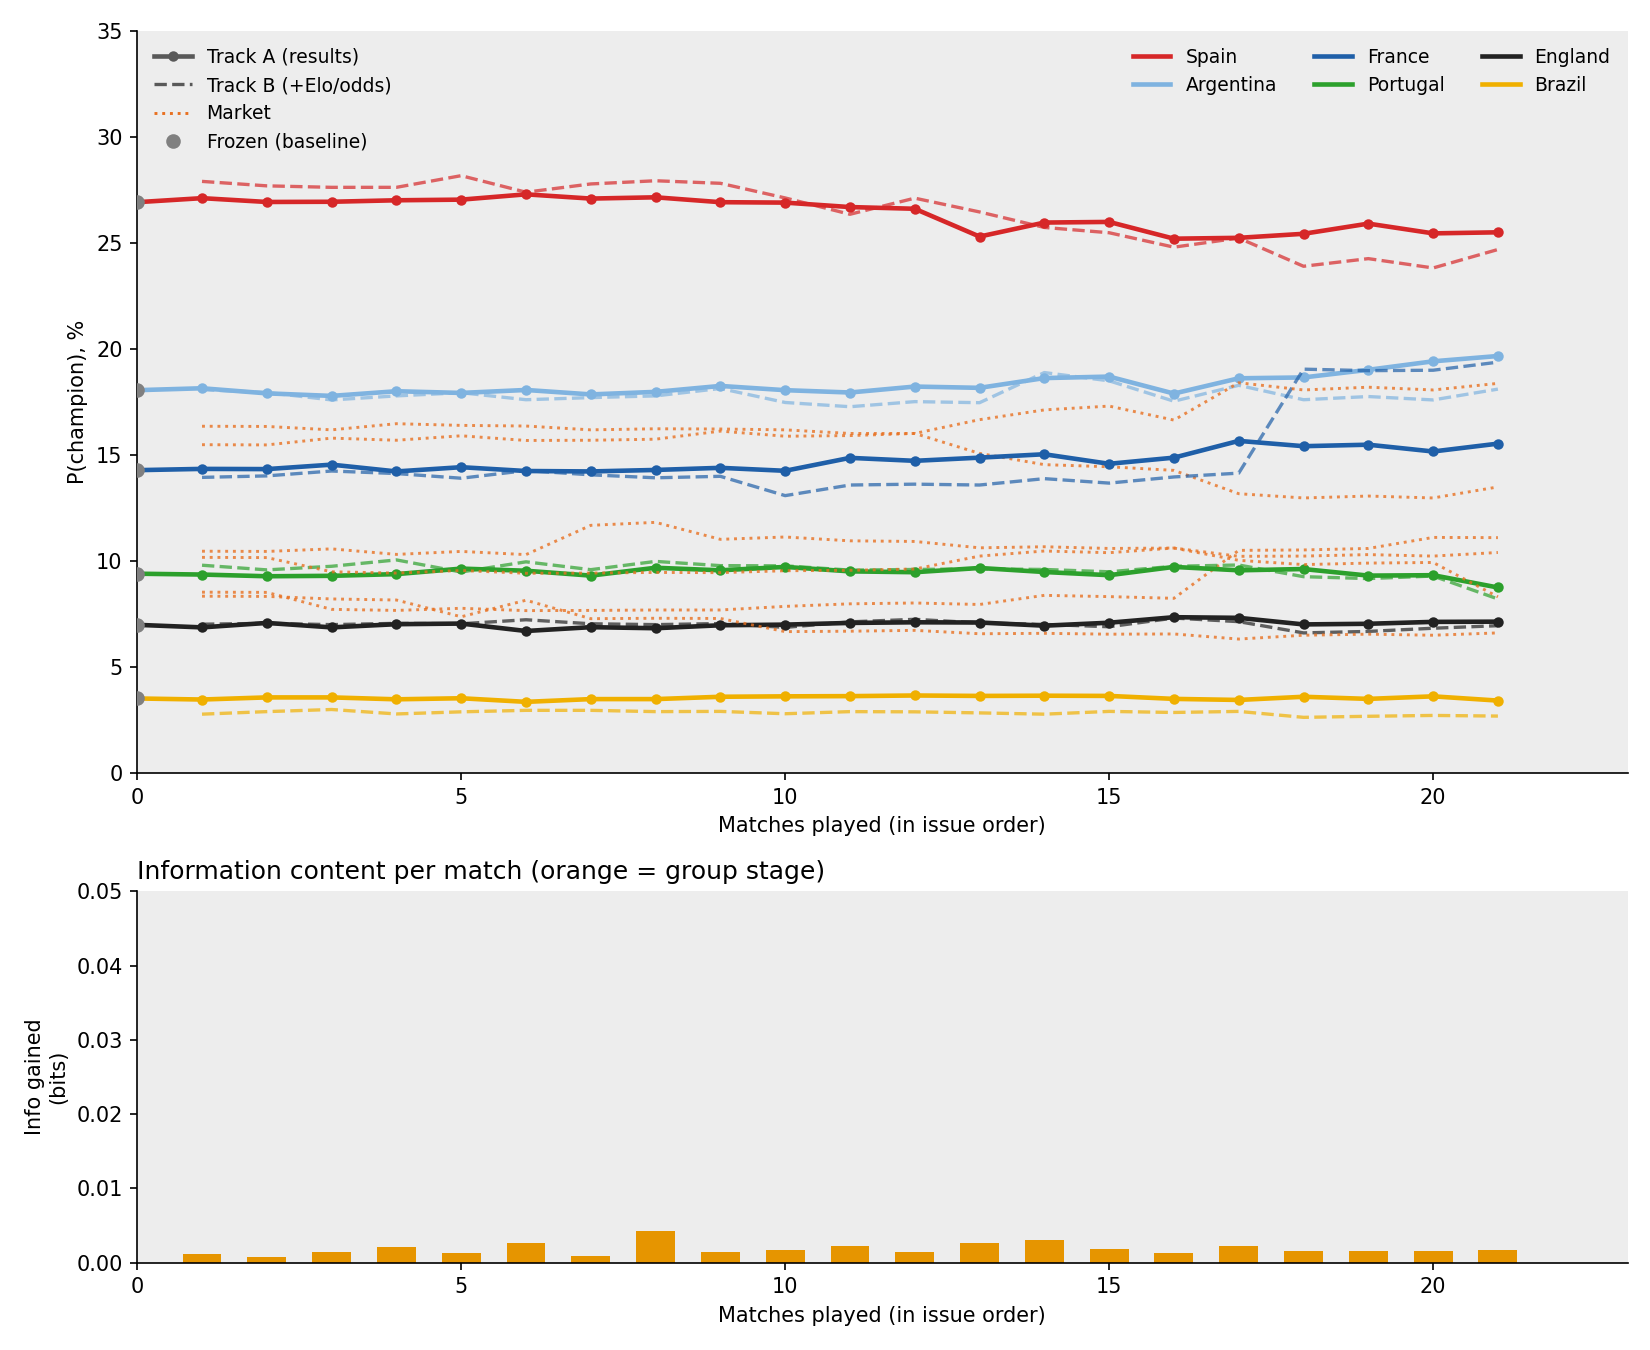
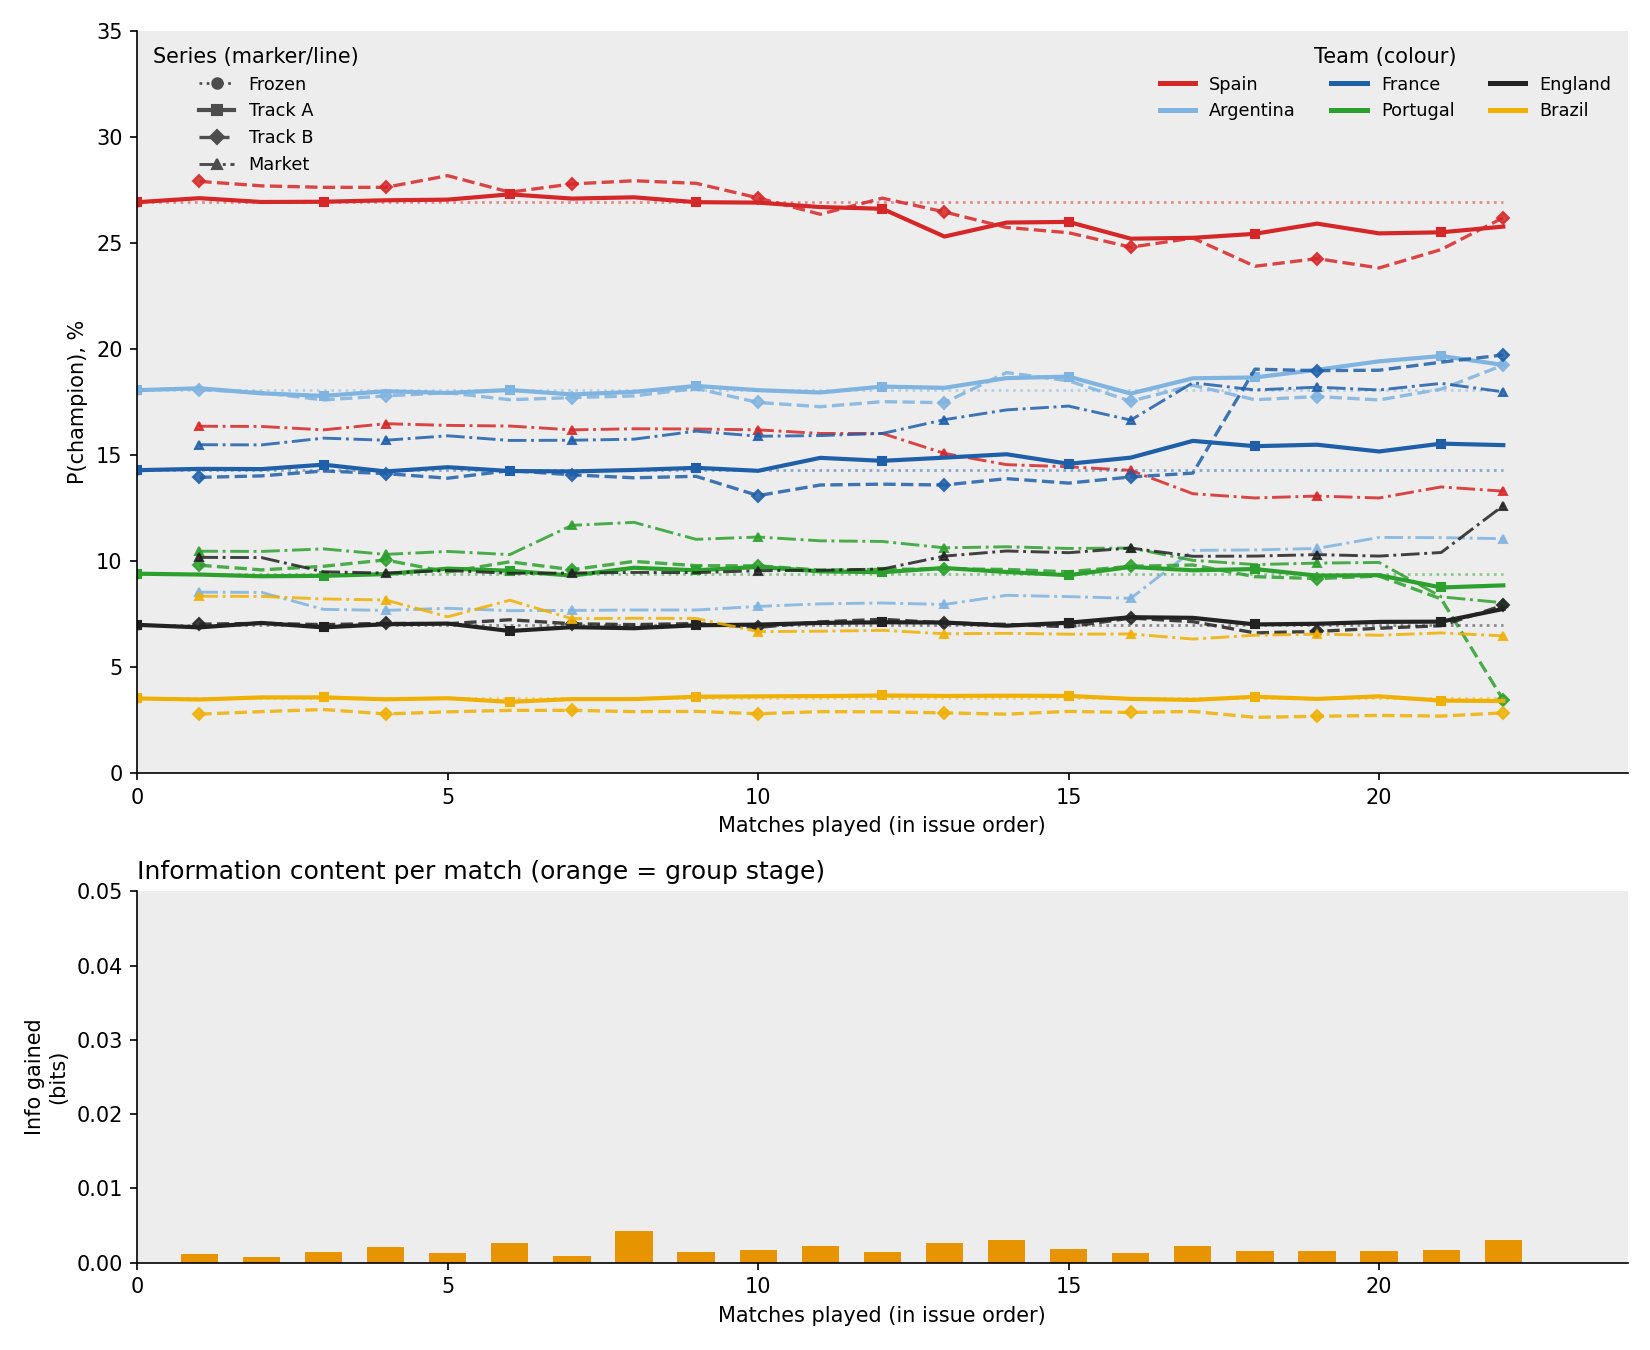
feat: pad Table 18 cells (07.0); redesign Figure 3 legend (per-team colour, per-series marker/line)
- Table 18 (F/A/B survival): zero-pad cells to 0X.X so they align
- Figure 3 trajectory: each team keeps one colour across all four series; series
  told apart by marker + line style (Frozen circle/dotted, Track A square/solid,
  Track B diamond/dashed, Market triangle/dash-dot); Market now drawn in the team
  colour; two legends (Team colour, Series marker/line)

diff --git a/paper/live/survival_colcomp.tex b/paper/live/survival_colcomp.tex
@@ -13,54 +13,54 @@ Team & KO & R16 & QF & SF & Final & Champion \\
 Team & KO & R16 & QF & SF & Final & Champion \\
 \midrule
 \endhead
-Spain & 98.9/95.1/97.9 & 79.5/75.8/80.5 & 62.4/59.9/64.2 & 51.5/49.6/54.6 & 38.9/37.0/38.4 & 26.9/25.5/26.0 \\
-Argentina & 98.9/100.0/100.0 & 71.3/75.8/74.7 & 59.2/64.1/62.5 & 42.8/46.8/48.8 & 30.1/33.0/34.4 & 18.1/19.7/19.2 \\
-France & 98.5/100.0/100.0 & 79.2/81.8/84.9 & 59.0/62.4/64.0 & 43.2/46.7/50.3 & 24.5/26.7/30.9 & 14.3/15.5/19.8 \\
-Portugal & 97.3/94.1/89.7 & 74.0/70.1/57.6 & 51.1/48.1/35.1 & 29.3/27.4/17.0 & 18.2/17.0/8.8 & 9.4/8.8/3.4 \\
-England & 99.0/99.0/98.5 & 71.7/71.9/72.1 & 46.5/46.9/48.4 & 28.9/29.4/30.7 & 14.6/14.8/15.7 & 7.0/7.1/7.4 \\
-Brazil & 98.4/98.0/97.2 & 64.6/62.2/57.2 & 38.1/38.2/35.9 & 20.2/20.1/17.8 & 8.5/8.5/7.4 & 3.5/3.4/3.1 \\
-Germany & 98.8/99.9/100.0 & 66.9/70.0/78.6 & 31.2/30.1/36.9 & 16.6/16.6/23.4 & 6.2/6.3/10.7 & 2.2/2.3/4.8 \\
-Netherlands & 91.0/90.3/97.2 & 55.1/53.5/63.9 & 33.6/32.5/43.4 & 15.9/15.1/20.8 & 6.2/5.7/9.2 & 2.4/2.1/3.7 \\
-Norway & 89.4/98.5/96.9 & 53.6/63.6/60.5 & 28.6/34.5/30.7 & 13.8/16.8/14.6 & 5.1/6.1/5.4 & 1.7/2.1/1.7 \\
-Ecuador & 87.7/73.1/75.4 & 52.7/46.7/42.0 & 28.7/29.4/23.6 & 13.2/11.4/7.2 & 5.4/5.1/2.3 & 2.0/1.9/0.6 \\
-Croatia & 95.4/95.1/93.6 & 52.4/52.7/55.0 & 23.6/24.6/27.1 & 11.9/12.6/13.8 & 4.9/5.0/5.1 & 1.7/1.7/1.8 \\
-Colombia & 94.0/93.2/87.1 & 51.4/52.4/48.7 & 23.6/26.9/27.3 & 10.5/11.1/11.5 & 4.5/4.7/4.8 & 1.4/1.6/1.6 \\
-Mexico & 91.6/98.5/97.8 & 58.0/63.6/53.3 & 26.8/29.3/18.9 & 11.6/12.5/5.7 & 3.8/4.1/1.6 & 1.2/1.3/0.3 \\
-Switzerland & 94.0/85.6/88.6 & 63.0/56.2/52.7 & 28.8/26.5/23.1 & 10.6/9.3/6.2 & 4.0/3.6/2.1 & 1.2/1.2/0.5 \\
-Japan & 76.0/79.0/91.6 & 40.7/41.9/46.0 & 21.1/21.2/22.7 & 8.9/8.9/8.2 & 3.0/3.0/2.5 & 1.0/1.0/0.7 \\
-Uruguay & 87.8/77.8/84.7 & 35.9/32.3/39.1 & 19.2/16.9/23.2 & 8.4/7.4/11.8 & 3.4/3.0/5.1 & 1.0/0.9/1.8 \\
-Belgium & 96.4/95.0/86.6 & 58.0/55.4/46.4 & 28.0/25.8/18.3 & 8.0/7.8/4.8 & 3.0/2.9/1.3 & 0.9/0.8/0.3 \\
-Senegal & 81.5/73.6/60.0 & 42.5/38.8/30.0 & 19.8/18.0/13.3 & 7.6/6.3/4.2 & 2.4/2.1/1.2 & 0.7/0.6/0.3 \\
-Turkey & 80.4/48.9/71.9 & 51.2/25.7/42.5 & 24.3/10.9/19.1 & 9.1/4.8/9.3 & 3.9/1.8/4.1 & 1.3/0.6/1.4 \\
-Morocco & 88.8/93.3/90.8 & 37.9/40.3/37.6 & 17.1/18.4/18.1 & 5.8/6.0/5.8 & 1.5/1.5/1.6 & 0.3/0.4/0.4 \\
-Austria & 76.1/91.5/91.3 & 22.5/29.0/21.7 & 9.3/11.2/7.8 & 3.4/4.4/3.0 & 1.1/1.4/0.8 & 0.3/0.4/0.1 \\
-Canada & 88.4/83.8/84.4 & 51.7/48.7/38.3 & 20.7/19.6/12.4 & 5.9/5.4/2.5 & 1.6/1.5/0.5 & 0.4/0.3/0.1 \\
-Paraguay & 65.2/38.9/20.6 & 33.3/17.2/7.0 & 12.5/5.6/1.8 & 3.9/2.0/0.6 & 1.3/0.6/0.1 & 0.3/0.2/0.0 \\
-Australia & 45.3/90.5/92.5 & 18.9/40.8/39.1 & 5.6/10.6/11.2 & 1.5/2.9/2.5 & 0.4/0.8/0.6 & 0.1/0.1/0.1 \\
-United States & 82.3/98.4/96.4 & 39.9/46.8/47.3 & 13.1/16.3/19.3 & 2.7/3.2/5.1 & 0.7/0.8/1.4 & 0.1/0.1/0.3 \\
-South Korea & 66.2/91.8/97.4 & 28.2/43.0/50.4 & 8.2/12.9/15.7 & 2.3/3.3/4.0 & 0.5/0.6/0.7 & 0.1/0.1/0.1 \\
-Scotland & 69.1/82.9/75.5 & 23.1/27.4/18.3 & 8.6/10.3/5.6 & 2.5/3.0/1.1 & 0.6/0.6/0.2 & 0.1/0.1/0.0 \\
-Iran & 62.6/42.1/48.5 & 26.2/18.2/17.7 & 6.7/4.9/4.3 & 1.5/1.0/0.6 & 0.4/0.3/0.1 & 0.1/0.1/0.0 \\
-Czechia & 68.3/49.9/55.8 & 27.3/19.8/17.5 & 7.2/4.9/3.8 & 1.8/1.3/0.9 & 0.3/0.2/0.1 & 0.1/0.0/0.0 \\
-Sweden & 64.2/95.5/96.3 & 19.5/29.1/39.5 & 5.5/8.8/14.2 & 1.2/1.8/3.7 & 0.2/0.3/0.8 & 0.0/0.0/0.1 \\
-Egypt & 76.6/82.8/78.0 & 26.8/29.6/33.6 & 5.7/6.0/9.6 & 0.9/1.0/2.0 & 0.2/0.2/0.4 & 0.0/0.0/0.1 \\
-Algeria & 57.4/40.1/37.9 & 13.4/10.7/9.7 & 4.3/3.2/3.3 & 1.1/0.7/0.7 & 0.3/0.1/0.1 & 0.0/0.0/0.0 \\
-Uzbekistan & 38.5/37.5/36.1 & 8.9/8.9/9.2 & 2.4/2.5/2.8 & 0.6/0.6/0.7 & 0.1/0.1/0.1 & 0.0/0.0/0.0 \\
-Ivory Coast & 81.5/98.2/99.4 & 23.1/25.9/34.7 & 5.8/5.5/10.2 & 0.9/1.0/2.7 & 0.1/0.1/0.5 & 0.0/0.0/0.1 \\
-Panama & 35.9/35.1/58.9 & 8.9/9.2/17.6 & 2.5/2.7/5.8 & 0.6/0.6/1.3 & 0.1/0.1/0.3 & 0.0/0.0/0.1 \\
-Bosnia and Herzegovina & 62.4/66.6/69.8 & 15.9/18.0/19.7 & 2.6/2.9/4.1 & 0.3/0.3/0.5 & 0.0/0.0/0.1 & 0.0/0.0/0.0 \\
-Cape Verde & 34.7/52.6/50.0 & 5.5/7.1/8.1 & 1.0/1.3/1.5 & 0.1/0.1/0.1 & 0.0/0.0/0.0 & 0.0/0.0/0.0 \\
-Congo DR & 29.0/39.0/51.9 & 4.9/6.8/14.2 & 1.1/1.4/4.4 & 0.2/0.2/1.1 & 0.0/0.0/0.2 & 0.0/0.0/0.1 \\
-Saudi Arabia & 34.0/38.7/32.4 & 5.0/5.3/4.4 & 0.9/0.9/0.7 & 0.1/0.1/0.1 & 0.0/0.0/0.0 & 0.0/0.0/0.0 \\
-South Africa & 45.3/31.9/14.5 & 8.1/6.2/2.6 & 0.9/0.7/0.4 & 0.1/0.1/0.0 & 0.0/0.0/0.0 & 0.0/0.0/0.0 \\
-Qatar & 24.3/31.8/25.6 & 2.8/4.0/3.2 & 0.2/0.3/0.3 & 0.0/0.0/0.0 & 0.0/0.0/0.0 & 0.0/0.0/0.0 \\
-New Zealand & 30.9/27.8/43.3 & 6.7/6.6/14.4 & 0.8/0.7/2.8 & 0.1/0.1/0.4 & 0.0/0.0/0.1 & 0.0/0.0/0.0 \\
-Ghana & 22.9/22.6/7.0 & 1.6/1.9/0.7 & 0.2/0.2/0.1 & 0.0/0.0/0.0 & 0.0/0.0/0.0 & 0.0/0.0/0.0 \\
-Jordan & 28.5/17.9/17.6 & 5.4/4.4/5.3 & 1.4/1.1/1.6 & 0.3/0.2/0.3 & 0.1/0.0/0.0 & 0.0/0.0/0.0 \\
-Tunisia & 40.2/15.2/2.1 & 8.9/3.5/0.4 & 1.8/0.7/0.1 & 0.2/0.1/0.0 & 0.0/0.0/0.0 & 0.0/0.0/0.0 \\
-Curaçao & 7.0/3.7/0.7 & 0.6/0.4/0.1 & 0.1/0.0/0.0 & 0.0/0.0/0.0 & 0.0/0.0/0.0 & 0.0/0.0/0.0 \\
-Iraq & 7.7/3.0/4.3 & 1.7/0.6/1.1 & 0.3/0.1/0.2 & 0.0/0.0/0.0 & 0.0/0.0/0.0 & 0.0/0.0/0.0 \\
-Haiti & 12.0/2.6/6.1 & 1.4/0.3/0.9 & 0.2/0.0/0.1 & 0.0/0.0/0.0 & 0.0/0.0/0.0 & 0.0/0.0/0.0 \\
+Spain & 98.9/95.2/98.0 & 79.5/75.7/80.1 & 62.4/60.5/64.9 & 51.5/50.2/55.2 & 38.9/37.6/38.4 & 26.9/25.8/25.9 \\
+Argentina & 98.9/100.0/100.0 & 71.3/75.7/75.3 & 59.2/64.1/63.1 & 42.8/46.8/49.5 & 30.1/32.3/34.0 & 18.1/19.2/19.2 \\
+France & 98.5/100.0/100.0 & 79.2/81.8/85.0 & 59.0/62.2/63.6 & 43.2/46.1/49.7 & 24.5/26.6/31.2 & 14.3/15.5/20.1 \\
+Portugal & 97.3/94.2/89.9 & 74.0/71.0/58.1 & 51.1/48.5/35.1 & 29.3/28.0/17.8 & 18.2/17.1/08.6 & 09.4/08.9/03.4 \\
+England & 99.0/100.0/100.0 & 71.7/76.8/76.1 & 46.5/53.7/56.5 & 28.9/33.2/35.4 & 14.6/16.0/17.7 & 07.0/07.8/08.0 \\
+Brazil & 98.4/98.0/97.2 & 64.6/62.4/57.0 & 38.1/38.3/35.4 & 20.2/19.6/17.4 & 08.5/08.1/07.1 & 03.5/03.4/02.9 \\
+Germany & 98.8/99.9/100.0 & 66.9/69.9/78.8 & 31.2/30.2/36.9 & 16.6/16.3/23.2 & 06.2/06.4/10.9 & 02.2/02.2/04.8 \\
+Netherlands & 91.0/90.6/97.0 & 55.1/53.8/63.4 & 33.6/31.9/42.4 & 15.9/14.6/19.8 & 06.2/05.8/08.8 & 02.4/02.2/03.7 \\
+Norway & 89.4/98.5/96.7 & 53.6/63.9/60.3 & 28.6/34.4/30.8 & 13.8/16.3/14.2 & 05.1/06.0/05.3 & 01.7/02.0/01.6 \\
+Ecuador & 87.7/73.5/76.3 & 52.7/47.0/42.4 & 28.7/29.9/24.0 & 13.2/11.5/07.4 & 05.4/05.2/02.5 & 02.0/01.9/00.7 \\
+Colombia & 94.0/93.4/87.8 & 51.4/53.7/50.0 & 23.6/27.3/27.5 & 10.5/11.1/11.0 & 04.5/04.8/04.5 & 01.4/01.5/01.5 \\
+Croatia & 95.4/92.9/89.5 & 52.4/47.1/49.6 & 23.6/19.5/19.9 & 11.9/10.0/10.4 & 04.9/04.3/04.2 & 01.7/01.5/01.4 \\
+Mexico & 91.6/98.7/98.0 & 58.0/63.8/52.7 & 26.8/27.7/17.9 & 11.6/12.0/05.5 & 03.8/03.8/01.5 & 01.2/01.2/00.3 \\
+Switzerland & 94.0/85.5/88.6 & 63.0/56.5/53.3 & 28.8/26.9/23.8 & 10.6/09.6/06.6 & 04.0/03.6/02.1 & 01.2/01.1/00.5 \\
+Uruguay & 87.8/77.6/84.2 & 35.9/32.2/38.6 & 19.2/17.0/23.2 & 08.4/07.8/12.3 & 03.4/03.1/05.3 & 01.0/00.9/01.8 \\
+Japan & 76.0/78.7/91.7 & 40.7/42.0/47.0 & 21.1/20.8/23.3 & 08.9/08.5/07.9 & 03.0/02.9/02.4 & 01.0/00.9/00.6 \\
+Belgium & 96.4/95.1/86.8 & 58.0/55.0/46.3 & 28.0/25.5/18.7 & 08.0/08.1/05.0 & 03.0/03.0/01.4 & 00.9/00.9/00.3 \\
+Turkey & 80.4/49.1/71.8 & 51.2/25.6/42.8 & 24.3/10.7/19.4 & 09.1/04.8/09.4 & 03.9/01.9/04.2 & 01.3/00.6/01.4 \\
+Senegal & 81.5/73.5/60.4 & 42.5/38.5/29.9 & 19.8/17.6/13.2 & 07.6/06.1/04.0 & 02.4/02.0/01.2 & 00.7/00.6/00.3 \\
+Austria & 76.1/91.4/91.0 & 22.5/28.7/21.2 & 09.3/11.4/07.9 & 03.4/04.3/02.9 & 01.1/01.4/00.8 & 00.3/00.4/00.2 \\
+Canada & 88.4/84.0/84.4 & 51.7/48.9/38.5 & 20.7/19.7/12.7 & 05.9/05.5/02.3 & 01.6/01.6/00.5 & 00.4/00.4/00.1 \\
+Morocco & 88.8/93.3/91.2 & 37.9/39.6/37.7 & 17.1/18.2/18.0 & 05.8/05.9/05.5 & 01.5/01.5/01.4 & 00.3/00.3/00.3 \\
+United States & 82.3/98.3/96.2 & 39.9/46.9/47.2 & 13.1/16.5/19.0 & 02.7/03.3/05.0 & 00.7/00.8/01.4 & 00.1/00.2/00.3 \\
+Paraguay & 65.2/38.8/21.0 & 33.3/17.1/06.8 & 12.5/05.5/01.8 & 03.9/02.0/00.4 & 01.3/00.6/00.1 & 00.3/00.1/00.0 \\
+Scotland & 69.1/82.5/75.1 & 23.1/26.9/17.9 & 08.6/09.9/04.9 & 02.5/02.8/00.9 & 00.6/00.6/00.1 & 00.1/00.1/00.0 \\
+South Korea & 66.2/92.0/97.4 & 28.2/43.1/50.0 & 08.2/12.8/14.8 & 02.3/03.3/03.8 & 00.5/00.6/00.8 & 00.1/00.1/00.1 \\
+Australia & 45.3/90.5/92.7 & 18.9/40.6/38.7 & 05.6/10.8/11.4 & 01.5/02.8/02.4 & 00.4/00.7/00.5 & 00.1/00.1/00.1 \\
+Iran & 62.6/42.7/48.3 & 26.2/18.7/17.5 & 06.7/04.9/04.1 & 01.5/01.1/00.6 & 00.4/00.3/00.1 & 00.1/00.1/00.0 \\
+Sweden & 64.2/95.7/96.4 & 19.5/29.1/39.4 & 05.5/08.7/14.0 & 01.2/01.7/03.4 & 00.2/00.3/00.8 & 00.0/00.1/00.1 \\
+Czechia & 68.3/49.7/55.7 & 27.3/19.4/17.6 & 07.2/05.1/04.1 & 01.8/01.3/00.9 & 00.3/00.2/00.2 & 00.1/00.0/00.0 \\
+Egypt & 76.6/82.4/78.2 & 26.8/29.8/34.2 & 05.7/06.1/09.8 & 00.9/01.0/02.1 & 00.2/00.2/00.5 & 00.0/00.0/00.1 \\
+Algeria & 57.4/40.7/38.5 & 13.4/10.7/09.6 & 04.3/03.2/03.4 & 01.1/00.8/00.8 & 00.3/00.2/00.2 & 00.0/00.0/00.0 \\
+Ivory Coast & 81.5/98.2/99.4 & 23.1/25.8/34.9 & 05.8/05.5/10.5 & 00.9/01.1/02.5 & 00.1/00.2/00.6 & 00.0/00.0/00.1 \\
+Uzbekistan & 38.5/37.2/35.2 & 08.9/08.8/09.3 & 02.4/02.4/02.5 & 00.6/00.6/00.6 & 00.1/00.1/00.1 & 00.0/00.0/00.0 \\
+Panama & 35.9/35.2/59.5 & 08.9/09.2/18.0 & 02.5/02.7/05.6 & 00.6/00.6/01.3 & 00.1/00.1/00.3 & 00.0/00.0/00.0 \\
+Bosnia and Herzegovina & 62.4/66.2/69.1 & 15.9/17.8/19.7 & 02.6/02.9/03.8 & 00.3/00.3/00.5 & 00.0/00.0/00.1 & 00.0/00.0/00.0 \\
+Saudi Arabia & 34.0/38.7/32.6 & 05.0/05.3/04.4 & 00.9/00.9/00.6 & 00.1/00.1/00.1 & 00.0/00.0/00.0 & 00.0/00.0/00.0 \\
+Cape Verde & 34.7/52.5/50.0 & 05.5/07.1/08.1 & 01.0/01.3/01.6 & 00.1/00.2/00.2 & 00.0/00.0/00.0 & 00.0/00.0/00.0 \\
+Congo DR & 29.0/38.9/52.2 & 04.9/06.4/13.7 & 01.1/01.3/04.0 & 00.2/00.3/01.1 & 00.0/00.0/00.2 & 00.0/00.0/00.0 \\
+Qatar & 24.3/32.0/26.2 & 02.8/03.9/03.5 & 00.2/00.2/00.3 & 00.0/00.0/00.0 & 00.0/00.0/00.0 & 00.0/00.0/00.0 \\
+South Africa & 45.3/31.7/14.3 & 08.1/06.0/02.6 & 00.9/00.6/00.4 & 00.1/00.1/00.0 & 00.0/00.0/00.0 & 00.0/00.0/00.0 \\
+New Zealand & 30.9/28.1/43.0 & 06.7/06.4/13.8 & 00.8/00.8/02.8 & 00.1/00.1/00.4 & 00.0/00.0/00.0 & 00.0/00.0/00.0 \\
+Ghana & 22.9/22.5/07.1 & 01.6/01.9/00.8 & 00.2/00.2/00.1 & 00.0/00.0/00.0 & 00.0/00.0/00.0 & 00.0/00.0/00.0 \\
+Jordan & 28.5/17.8/18.1 & 05.4/04.4/05.5 & 01.4/01.0/01.9 & 00.3/00.2/00.3 & 00.1/00.0/00.1 & 00.0/00.0/00.0 \\
+Tunisia & 40.2/15.3/02.2 & 08.9/03.5/00.5 & 01.8/00.7/00.1 & 00.2/00.1/00.0 & 00.0/00.0/00.0 & 00.0/00.0/00.0 \\
+Curaçao & 07.0/03.7/00.5 & 00.6/00.4/00.1 & 00.1/00.1/00.0 & 00.0/00.0/00.0 & 00.0/00.0/00.0 & 00.0/00.0/00.0 \\
+Iraq & 07.7/03.1/04.8 & 01.7/00.7/01.1 & 00.3/00.1/00.2 & 00.0/00.0/00.0 & 00.0/00.0/00.0 & 00.0/00.0/00.0 \\
+Haiti & 12.0/02.6/05.9 & 01.4/00.2/00.8 & 00.2/00.0/00.1 & 00.0/00.0/00.0 & 00.0/00.0/00.0 & 00.0/00.0/00.0 \\
 \bottomrule
 \end{longtable}
 \end{scriptsize}

diff --git a/scripts/plot_trajectory_live.py b/scripts/plot_trajectory_live.py
@@ -47,42 +47,48 @@ def build(trajectory, through_match=None, out=None, issue_order=None):
 
     fig, (ax1, ax2) = plt.subplots(2, 1, figsize=(11, 9),
                                    gridspec_kw={"height_ratios": [2.0, 1.0]})
+    # Colour = team; the four series share that colour and are told apart by
+    # marker + line style (Frozen circle/dotted, Track A square/solid, Track B
+    # diamond/dashed, Market triangle/dash-dot).
+    STYLES = {
+        "Frozen":  dict(ls=":",  marker="o", lw=1.3),
+        "Track A": dict(ls="-",  marker="s", lw=2.0),
+        "Track B": dict(ls="--", marker="D", lw=1.6),
+        "Market":  dict(ls="-.", marker="^", lw=1.4),
+    }
     for team, col in TEAM_COLORS.items():
         y0 = 100 * base.get(team, 0.0)
-        # Frozen dot at x=0 (gray, never moves)
-        ax1.plot([0], [y0], color="0.5", marker="o", ms=6, zorder=5)
+        # Frozen: flat baseline (never moves)
+        ax1.plot([0, n], [y0, y0], color=col, alpha=0.5, ms=4, markevery=[0],
+                 **STYLES["Frozen"])
         # Track A (result-conditioned)
         ys_a = [y0] + [100 * r["champion"].get(team, 0.0) for r in posts]
-        ax1.plot(xs, ys_a, color=col, lw=2.2, marker="o", ms=4)
-        # Track B (result + Elo, dashed), when available
+        ax1.plot(xs, ys_a, color=col, ms=4, markevery=3, **STYLES["Track A"])
+        # Track B (result + Elo), when available
         ys_b = [100 * r.get("champion_b", {}).get(team, float("nan")) for r in posts]
         if any(v == v for v in ys_b):  # at least one non-nan
-            ax1.plot(xb, ys_b, color=col, lw=1.6, ls="--", alpha=0.7)
-        # Market (Polymarket de-vigged, orange dotted), when available
+            ax1.plot(xb, ys_b, color=col, alpha=0.85, ms=4, markevery=3,
+                     **STYLES["Track B"])
+        # Market (Polymarket de-vigged), now in the team colour, when available
         ys_m = [100 * r.get("market_champion", {}).get(team, float("nan")) for r in posts]
         if any(v == v for v in ys_m):
-            ax1.plot(xb, ys_m, color="#E87020", lw=1.4, ls=":", alpha=0.8)
+            ax1.plot(xb, ys_m, color=col, alpha=0.85, ms=4, markevery=3,
+                     **STYLES["Market"])
     ax1.axvspan(0, min(GROUP_END, xmax), color="0.93", zorder=0)
     ax1.set_xlabel("Matches played (in issue order)")
     ax1.set_ylabel("P(champion), %")
     ax1.set_xlim(0, xmax)
     ax1.set_ylim(0, max(35, 5 + max(100 * base.get(t, 0) for t in TEAM_COLORS)))
-    # Two legends: team colours, and a separate line-style key so every series
-    # (Track A / Track B / Market / Frozen) is explained.
-    team_handles = [Line2D([0], [0], color=c, lw=2.2, label=t)
+    # Two legends: team colours, and a marker/line-style key for the four series.
+    team_handles = [Line2D([0], [0], color=c, lw=2.4, label=t)
                     for t, c in TEAM_COLORS.items()]
-    style_handles = [
-        Line2D([0], [0], color="0.35", lw=2.2, ls="-", marker="o", ms=4,
-               label="Track A (results)"),
-        Line2D([0], [0], color="0.35", lw=1.6, ls="--", label="Track B (+Elo/odds)"),
-        Line2D([0], [0], color="#E87020", lw=1.4, ls=":", label="Market"),
-        Line2D([0], [0], color="0.5", lw=0, marker="o", ms=6, label="Frozen (baseline)"),
-    ]
+    style_handles = [Line2D([0], [0], color="0.3", ms=5, label=lbl,
+                            **STYLES[lbl]) for lbl in STYLES]
     leg_teams = ax1.legend(handles=team_handles, ncol=3, frameon=False,
-                           loc="upper right", fontsize=9)
+                           loc="upper right", fontsize=8.5, title="Team (colour)")
     ax1.add_artist(leg_teams)
     ax1.legend(handles=style_handles, ncol=1, frameon=False,
-               loc="upper left", fontsize=9)
+               loc="upper left", fontsize=8.5, title="Series (marker/line)")
     for s in ("top", "right"):
         ax1.spines[s].set_visible(False)
 

diff --git a/scripts/render_live.py b/scripts/render_live.py
@@ -716,12 +716,12 @@ def survival_colcomp_unit(ctx):
     def triple(t, stage):
         f = frozen.get(t, {}).get(stage, 0.0)
         a = now[t].get(stage, 0.0)
-        delta = abs(a - f)
-        a_str = f"\\textbf{{{_pct(a)}}}" if delta > 3.0 else _pct(a)
+        delta = abs(a - f)            # zero-padded (07.0) so the F/A/B cells align
+        a_str = f"\\textbf{{{_ppct(a)}}}" if delta > 3.0 else _ppct(a)
         if has_b and t in now_b:
             b = now_b[t].get(stage, 0.0)
-            return f"{_pct(f)}/{a_str}/{_pct(b)}"
-        return f"{_pct(f)}/{a_str}"
+            return f"{_ppct(f)}/{a_str}/{_ppct(b)}"
+        return f"{_ppct(f)}/{a_str}"
 
     rows = [
         t + " & " + " & ".join(triple(t, s) for s in stages) + " \\\\"